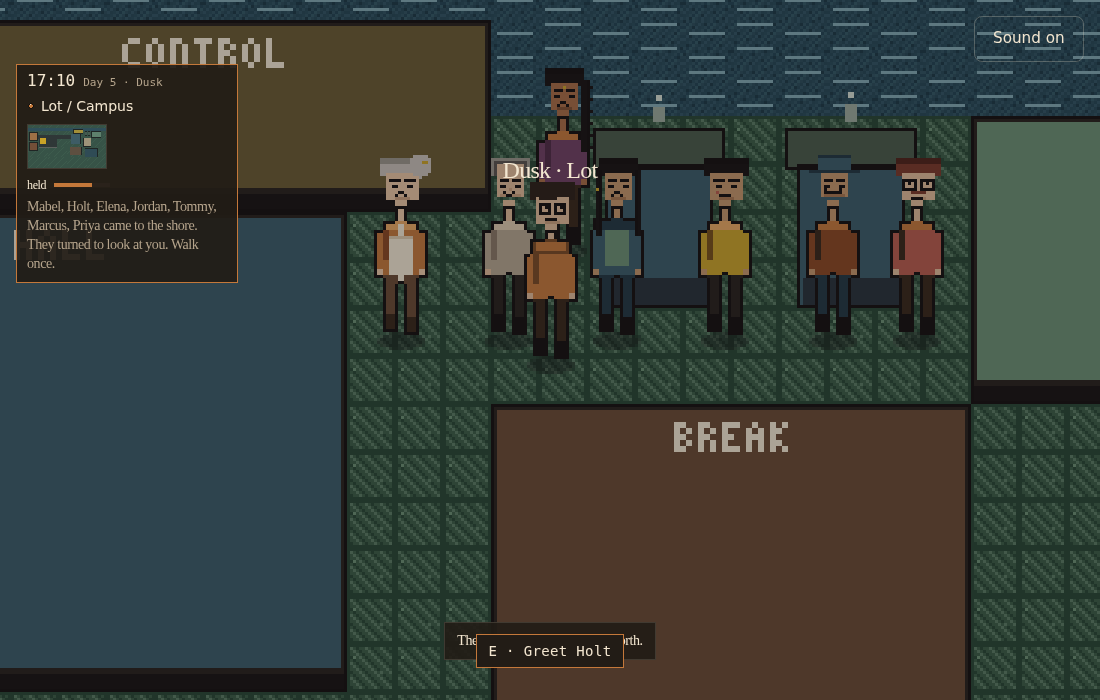
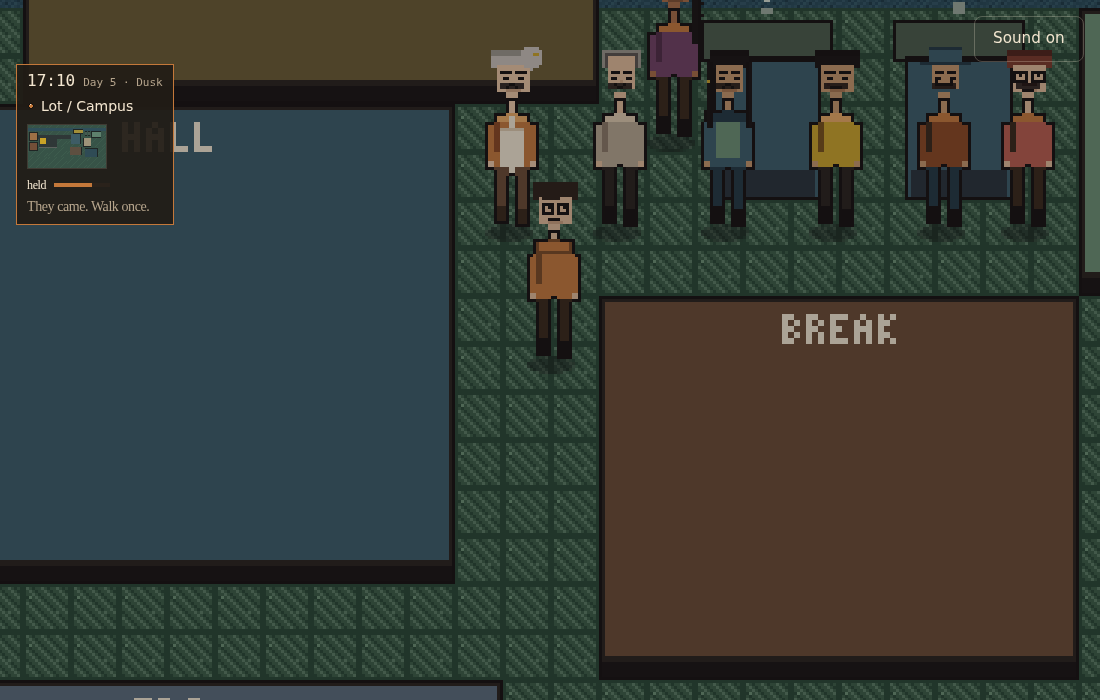
Stand outside the shore, and keep the consequence.
The dusk spawn is in the alley, not on Holt. The plant doors stay shut for that walk. The objective is one line. A catch or a hide keeps its post for the rest of the week, and the day's job shows before the Academy.

diff --git a/src/game/week.ts b/src/game/week.ts
@@ -23,8 +23,8 @@ export interface WeekLogEntry {
 
 /** Days 2–5: on the lot, east of the cafe door and west of the van, facing the hall. */
 export const COMMUTE_SPAWN = { room: "gate" as const, x: 240, y: 200, facing: "right" as const };
-/** Friday close: east shore, facing the lake. The stacks are further east. */
-export const DUSK_SPAWN = { room: "gate" as const, x: 1100, y: 180, facing: "up" as const };
+/** Friday close: the alley west of the shore, looking up at the people. Not in the row. */
+export const DUSK_SPAWN = { room: "gate" as const, x: 1072, y: 216, facing: "up" as const };
 
 export const WEEK: DayDef[] = [
   {
@@ -134,13 +134,13 @@ export const INCIDENTS: Record<
     title: "Valve 14 does not match the paper",
     body: "Board A shows 14-B OPEN. The paper log initials 14-R CLOSED. Steam is talking in Maintenance. The easy path is to initial the paper and keep walking. That is how quiet plants fail.",
     report: "You write it up with your ugly handwriting and a time. Uncomfortable. Correct. The board now agrees with the paper.",
-    peer: "You pull Elena in. Two sets of eyes. The tag is wrong; the catch is shared. She mutters 'thank you' like it costs her, which means it is real.",
+    peer: "You pull Elena in. Two sets of eyes. The board now agrees with the paper.",
     hide: "The log looks like church. The hiss in Maintenance does not care. Hide paths grow later, in people you like.",
   },
   lockout: {
     title: "Pump 2A reads IN SERVICE",
     body: "Tommy's board has two LOTOTO tags and one IN SERVICE hung on a pump that is supposed to be dead. Someone will call it a leftover. Leftovers spin.",
-    report: "You log the wrong tag. Tommy initials next to you without making a speech. That is respect.",
+    report: "You log the wrong tag. Tommy's initials land next to yours. The tag comes down.",
     peer: "You and Tommy hang the lockout together. Two sets of eyes. The pump stays quiet on purpose.",
     hide: "You leave IN SERVICE up. The pump looks busy. So does the next mistake.",
   },
@@ -148,14 +148,14 @@ export const INCIDENTS: Record<
     title: "Area sticker says 40 mSv/h",
     body: "The other stickers say 0.04. A decimal walked. Marcus will want it to be print. Print still shines.",
     report: "You write 40 mSv/h with a circle around the decimal. ALARA is a verb today.",
-    peer: "Elena looks once and swears under her breath. Shared catch. You both step back from the shine.",
+    peer: "Shared catch. The sticker stays 40 until the board says 0.04.",
     hide: "You stick a new label over it. The shine does not care about paper.",
   },
   log: {
     title: "The shift log has no initials",
     body: "Times. Valves. A blank where a person should be. An unsigned log is a room pretending it was empty.",
     report: "You refuse to initial someone else's blank. Holt gets a sentence with a time on it.",
-    peer: "You find Elena. She laughs once, no humor, and signs what she actually did. The blank dies.",
+    peer: "You find Elena. She signs what she actually did. The blank gets a real line.",
     hide: "You initial it because the line looks lonely. Lonely lines become incidents with your name already on them.",
   },
 };
@@ -275,22 +275,14 @@ export function occupancyOverlay(
 ): NpcSlot | undefined {
   if (ending) return duskPost(id, residue, ended, shuffleDone, elenaSecondEyes) ?? away(id);
   if (id === "jordan" && anyHid(residue)) return { room: "breakroom", x: 248, y: 160, face: "right", radius: 12 };
-  if (day === 1 && id === "elena") {
-    if (residue.valve === "caught") return { room: "gate", x: 400, y: 248, face: "right", radius: 12 };
-    return { room: "gate", x: 220, y: 248, face: "right", radius: 12 };
-  }
-  if (day === 2 && id === "tommy") {
-    if (residue.tag === "caught") return { room: "maintenance", x: 208, y: 220, face: "down", radius: 12 };
-    return { room: "maintenance", x: 208, y: 160, face: "up", radius: 12 };
-  }
-  if (day === 3 && id === "marcus") {
-    if (residue.dose === "caught") return { room: "maintenance", x: 140, y: 200, face: "left", radius: 12 };
-    return { room: "maintenance", x: 232, y: 168, face: "up", radius: 12 };
-  }
-  if (day === 4 && id === "holt") {
-    if (residue.log === "caught") return { room: "control", x: 112, y: 140, face: "up", radius: 12 };
-    return { room: "control", x: 140, y: 236, face: "up", radius: 12 };
-  }
+  if (id === "elena" && residue.valve === "caught") return { room: "gate", x: 400, y: 248, face: "right", radius: 12 };
+  if (id === "elena" && (residue.valve === "hid" || day === 1)) return { room: "gate", x: 220, y: 248, face: "right", radius: 12 };
+  if (id === "tommy" && residue.tag === "caught") return { room: "maintenance", x: 208, y: 220, face: "down", radius: 12 };
+  if (id === "tommy" && (residue.tag === "hid" || day === 2)) return { room: "maintenance", x: 208, y: 160, face: "up", radius: 12 };
+  if (id === "marcus" && residue.dose === "caught") return { room: "maintenance", x: 140, y: 200, face: "left", radius: 12 };
+  if (id === "marcus" && (residue.dose === "hid" || day === 3)) return { room: "maintenance", x: 232, y: 168, face: "up", radius: 12 };
+  if (id === "holt" && residue.log === "caught") return { room: "control", x: 112, y: 140, face: "up", radius: 12 };
+  if (id === "holt" && (residue.log === "hid" || day === 4)) return { room: "control", x: 140, y: 236, face: "up", radius: 12 };
   if (day === 5 && id === "priya" && shuffleDone && !anyHid(residue)) {
     return { room: "reactor", x: 88, y: 196, face: "up", radius: 12 };
   }

diff --git a/src/game/sim.ts b/src/game/sim.ts
@@ -29,7 +29,7 @@ import {
 import { RADIUS, SPEED, WALL } from "./const";
 import { type PlantDesign, type ShuffleCell } from "./plant";
 import { DEFAULT_PLAYER_LOOK, type PlayerLook } from "./artSpec";
-import { INCIDENTS, occupancyOverlay, dayDef, shoreLine, COMMUTE_SPAWN, DUSK_SPAWN, type WeekLogEntry } from "./week";
+import { INCIDENTS, occupancyOverlay, dayDef, COMMUTE_SPAWN, DUSK_SPAWN, type WeekLogEntry } from "./week";
 import { writeSave, wipeSave } from "./save";
 import { playCatch, playDoor, playFoot, playHide, playReport, playSit, playStand, playTalk } from "./audio";
 import { isRevealing, requestSkip } from "./chatter";
@@ -583,10 +583,9 @@ export function addMinutes(s: GameState, n: number) {
 export function refreshObjective(s: GameState) {
   const d = dayDef(s.day);
   if (s.flags.endingWalk) {
-    const who = s.ended === "a"
-      ? shoreLine(s.ended, s.residue, s.shuffleDone, !!s.flags.elenaSecondEyes)
-      : "Only Mabel and Jordan are on the shore. They are not looking at you.";
-    s.objective = s.closePrompt ? who : `${who} Walk once.`;
+    s.objective = s.ended === "a"
+      ? (s.closePrompt ? "They turned to look at you." : "They came. Walk once.")
+      : (s.closePrompt ? "They are not looking at you." : "Walk the empty shore.");
     return;
   }
   if (s.day === 5 && !s.shuffleDone) {
@@ -622,10 +621,6 @@ export function refreshObjective(s: GameState) {
     s.objective = "Meet the floor — Elena, Tommy, Priya, Marcus, Jordan.";
     return;
   }
-  if (!s.flags.academy && !s.flags.trainer && s.day <= 2) {
-    s.objective = "Academy in Control, or Priya's ΔT bench in Engineering.";
-    return;
-  }
   if (d.incident && !s.incidentResolved) {
     const job =
       d.incident === "valve"
@@ -640,6 +635,10 @@ export function refreshObjective(s: GameState) {
   }
   if (s.day === 2 && !s.maintDone) {
     s.objective = "Hang the lockout on Tommy's board.";
+    return;
+  }
+  if (!s.flags.academy && !s.flags.trainer && s.day <= 2) {
+    s.objective = "Academy in Control, or Priya's ΔT bench in Engineering.";
     return;
   }
   if (s.period !== "afternoon") {
@@ -700,6 +699,10 @@ export function applyTransition(s: GameState) {
 }
 /** Pause-map hop. Fades to black, then arrives. Only rooms you have stood in. */
 export function travelTo(s: GameState, to: RoomId) {
+  if (s.flags.endingWalk) {
+    pushMsg(s, "The shore is the week. The plant can wait.");
+    return;
+  }
   if (s.mode !== "pause" && s.mode !== "play") return;
   if (s.mapHop || s.pendingRoom) return;
   if (to === s.room) {
@@ -1429,6 +1432,7 @@ export function movePlayer(s: GameState, a: Actions, dt: number) {
   if (s.doorCd > 0) return;
   const room = ROOMS[s.room];
   for (const d of room.doors) if (overlap(s.x, s.y, 8, d.rect)) {
+    if (s.flags.endingWalk) break;
     beginTransition(s, d.to, spawnInside(d.to, s.room), facingOut(s.room, d.to));
     break;
   }
